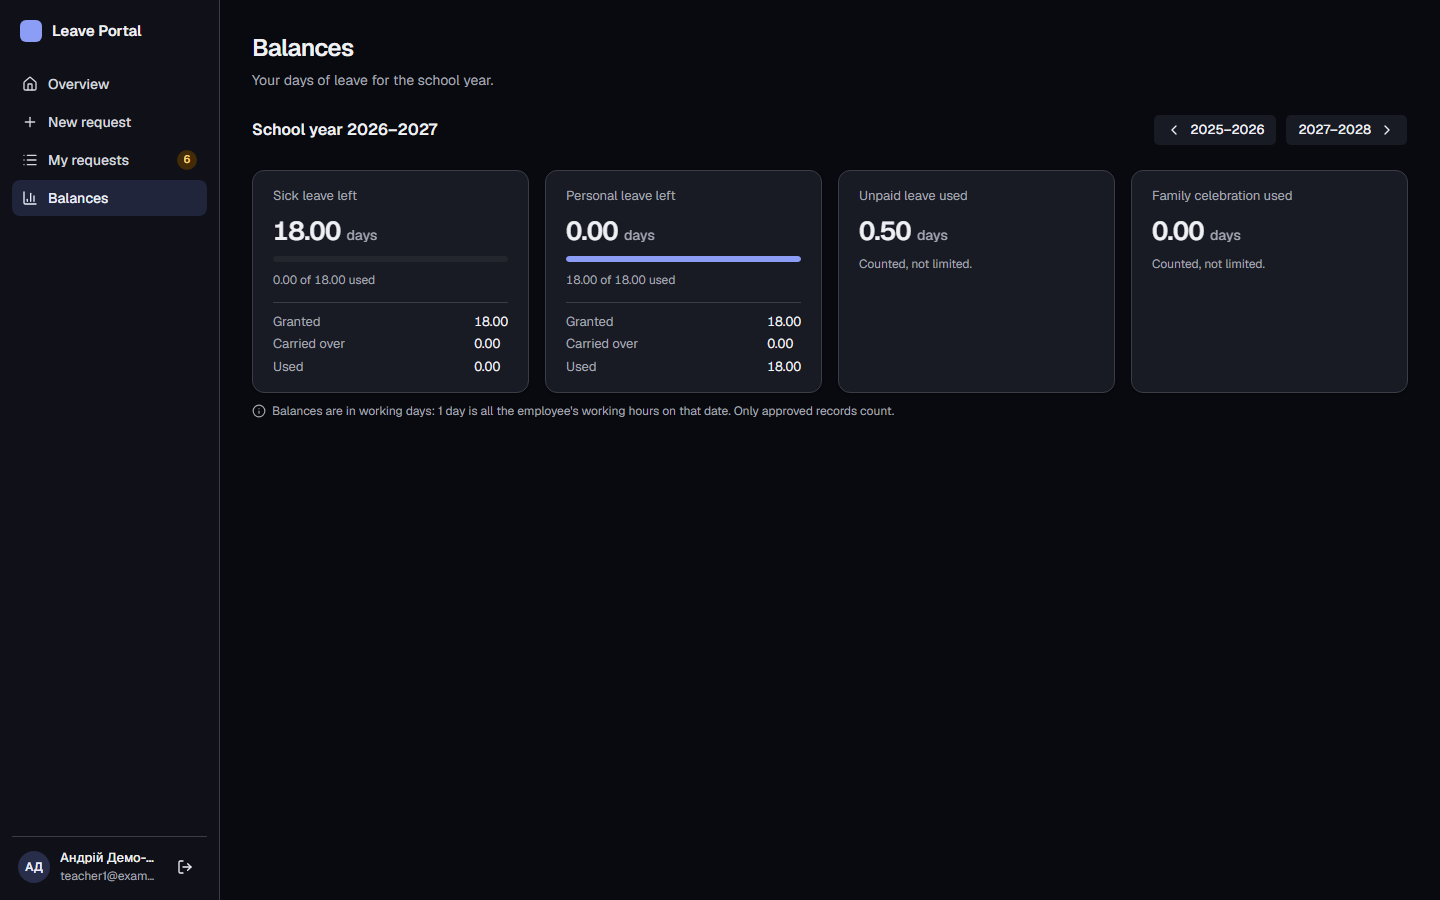
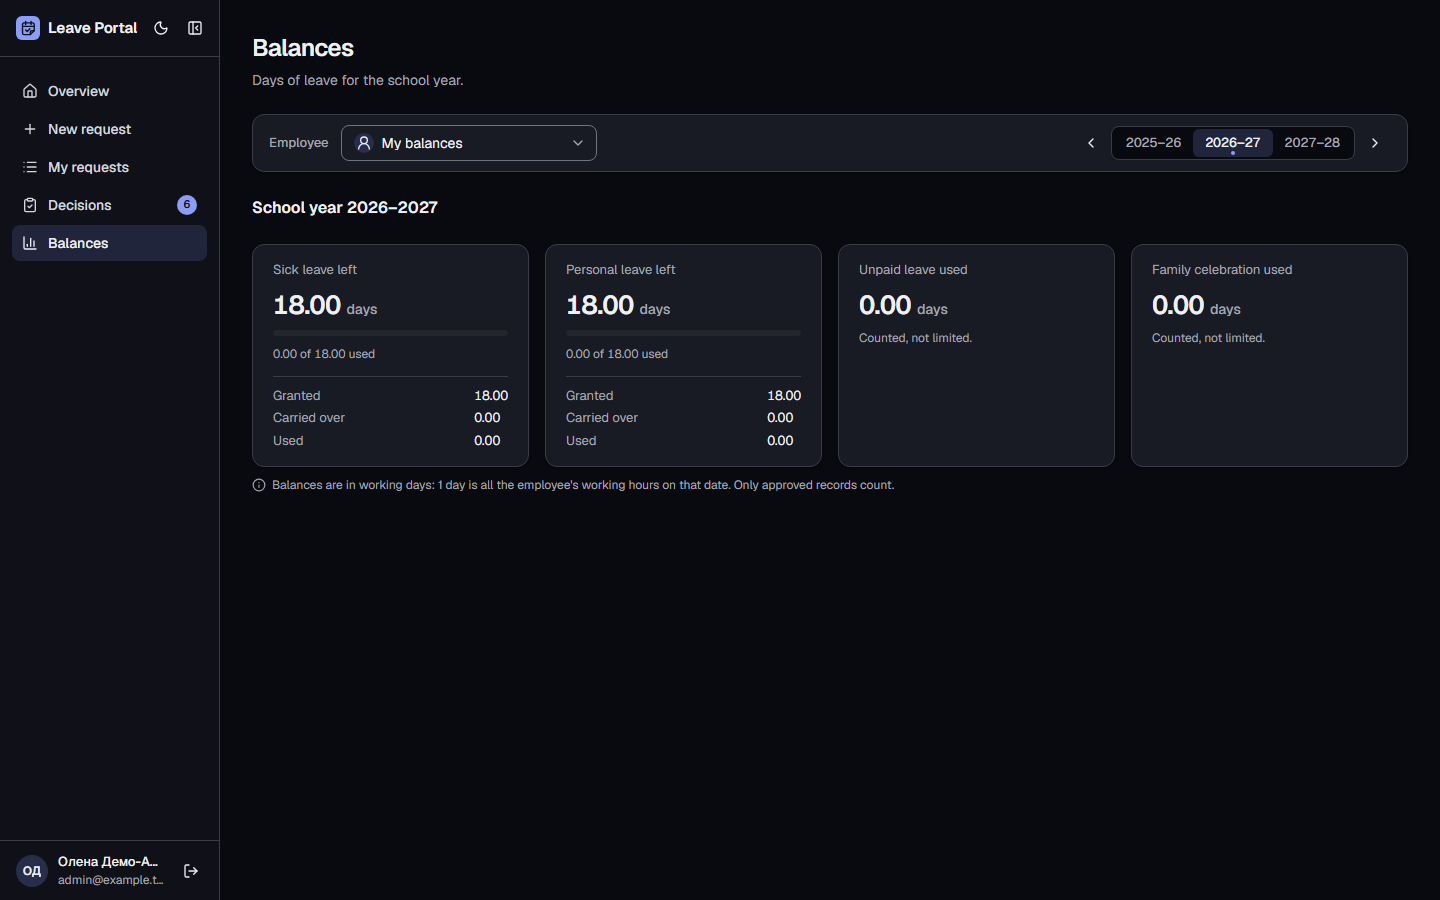
Balances: employee and year in one panel, no Show button
- The employee picker moved out of the page header into a panel above
  the cards: employee on the left, school years as segments on the right
  (‹ 2025–26 | 2026–27 | 2027–28 ›, the shown year highlighted, the
  current one dotted). The heading below still says whose balances and
  which year.
- Picking an employee navigates at once with the same ?employee=&year=;
  without JavaScript the GET form shows a Show button (<noscript>).
- List items: initials in a circle, the name, the email below.
- Select (all of them): padding around the list, item text truncates
  instead of running under the check, the selected item is a calm
  accent fill with the check.
- The Balances skeleton has the panel too.

diff --git a/src/app/(app)/balances/page.tsx b/src/app/(app)/balances/page.tsx
@@ -1,13 +1,11 @@
-import Link from "next/link";
 import { redirect } from "next/navigation";
-import { ChevronLeft, ChevronRight, Lock } from "lucide-react";
+import { CircleAlert, Lock } from "lucide-react";
 import { BalanceCards } from "@/components/balance-cards";
+import { EmployeePicker } from "@/components/employee-picker";
+import { SchoolYearSwitcher } from "@/components/school-year-switcher";
 import { Alert, AlertDescription } from "@/components/ui/alert";
-import { Button, buttonVariants } from "@/components/ui/button";
 import { EmptyState } from "@/components/ui/empty-state";
-import { Label } from "@/components/ui/label";
 import { PageHeader } from "@/components/ui/page-header";
-import { Select, SelectContent, SelectItem, SelectTrigger, SelectValue } from "@/components/ui/select";
 import { formatSchoolYear, schoolYearOf } from "@/lib/leave/balance";
 import { kyivDate } from "@/lib/leave/time";
 import { createClient } from "@/lib/supabase/server";
@@ -45,78 +43,42 @@ export default async function BalancesPage({ searchParams }: PageProps<"/balance
     supabase.rpc("balance_employees"),
   ]);
 
-  const others = employees ?? [];
-  const items = [
-    { value: OWN, label: "My balances" },
-    ...others.map((e) => ({ value: e.id, label: e.full_name || e.email || "Employee" })),
-  ];
-  // Шапка однакова для своїх і чужих залишків: вибір працівника завжди праворуч угорі, а чиї це залишки —
-  // в описі й у рядку навчального року.
+  const others = (employees ?? []).map((e) => ({ id: e.id, name: e.full_name || e.email || "Employee", email: e.email ?? "" }));
+  // Чиї це залишки — у рядку над картками; шапка однакова для своїх і чужих.
   const whose = employeeParam && result.ok ? result.employee.name : null;
 
   return (
     <>
       <PageHeader
         title="Balances"
-        description={whose ? `${whose}. Days of leave for the school year.` : "Your days of leave for the school year."}
-        actions={
-          others.length > 0 ? (
-            <form action="/balances" className="flex items-end gap-2">
-              <input type="hidden" name="year" value={year} />
-              <div className="flex flex-col gap-1.5">
-                <Label htmlFor="balances-employee">Employee</Label>
-                <Select name="employee" defaultValue={employeeParam ?? OWN} items={items}>
-                  <SelectTrigger id="balances-employee" className="min-w-56">
-                    <SelectValue />
-                  </SelectTrigger>
-                  <SelectContent>
-                    {items.map((item) => (
-                      <SelectItem key={item.value} value={item.value}>
-                        {item.label}
-                      </SelectItem>
-                    ))}
-                  </SelectContent>
-                </Select>
-              </div>
-              {/* GET-форма без серверної дії: useFormStatus її не бачить, тож звичайна кнопка, без «Showing…». */}
-              <Button type="submit" variant="outline">
-                Show
-              </Button>
-            </form>
-          ) : employeesError ? (
-            // Без списку менеджер не відкриє залишки працівника — кажемо чому, а не ховаємо вибір мовчки.
-            <Alert variant="destructive" role="alert" className="max-w-sm">
-              <AlertDescription>The list of employees could not be loaded. Please reload the page.</AlertDescription>
-            </Alert>
-          ) : undefined
-        }
+        description={others.length > 0 ? "Days of leave for the school year." : "Your days of leave for the school year."}
       />
 
-      <div className="flex flex-wrap items-center justify-between gap-3">
-        <h2 className="text-base font-semibold">
-          {whose ? `${whose} · ` : ""}School year {formatSchoolYear(year)}
-        </h2>
-        <nav aria-label="School year" className="flex items-center gap-2">
-          {/* На межах діапазону balancesQuery посилання за межу немає: 1999 чи 2100 відкрили б поточний рік. */}
-          {year > MIN_SCHOOL_YEAR && (
-            <Link href={balancesHref(employeeParam, year - 1)} className={buttonVariants({ variant: "outline", size: "sm" })}>
-              <ChevronLeft />
-              {formatSchoolYear(year - 1)}
-            </Link>
-          )}
-          {year !== currentYear && (
-            <Link href={balancesHref(employeeParam, currentYear)} className={buttonVariants({ variant: "ghost", size: "sm" })}>
-              Current year
-            </Link>
-          )}
-          {year < MAX_SCHOOL_YEAR && (
-            <Link href={balancesHref(employeeParam, year + 1)} className={buttonVariants({ variant: "outline", size: "sm" })}>
-              {formatSchoolYear(year + 1)}
-              <ChevronRight />
-            </Link>
-          )}
-        </nav>
+      {/* Панель вибору: ліворуч — чиї залишки (менеджеру й адміністратору), праворуч — навчальний рік. */}
+      <div className="flex flex-wrap items-center justify-between gap-3 rounded-lg border border-border bg-card px-4 py-2.5 shadow-sm">
+        {others.length > 0 ? (
+          <EmployeePicker employees={others} selected={employeeParam ?? OWN} own={OWN} year={year} />
+        ) : employeesError ? (
+          // Без списку менеджер не відкриє залишки працівника — кажемо чому, а не ховаємо вибір мовчки.
+          <p role="alert" className="flex items-center gap-2 text-[13px] text-destructive">
+            <CircleAlert className="size-4 shrink-0" aria-hidden="true" />
+            The list of employees could not be loaded. Please reload the page.
+          </p>
+        ) : (
+          <span className="text-[13px] font-medium">My balances</span>
+        )}
+        <SchoolYearSwitcher
+          year={year}
+          current={currentYear}
+          min={MIN_SCHOOL_YEAR}
+          max={MAX_SCHOOL_YEAR}
+          href={(y) => balancesHref(employeeParam, y)}
+        />
       </div>
+
+      <h2 className="text-base font-semibold">
+        {whose ? `${whose} · ` : ""}School year {formatSchoolYear(year)}
+      </h2>
 
       {result.ok ? (
         <BalanceCards balances={result.balances} detailed />

diff --git a/src/components/employee-picker.tsx b/src/components/employee-picker.tsx
@@ -1,0 +1,114 @@
+"use client";
+
+import { useRouter } from "next/navigation";
+import { useTransition } from "react";
+import { UserRound } from "lucide-react";
+import { Button } from "@/components/ui/button";
+import { Label } from "@/components/ui/label";
+import { Select, SelectContent, SelectItem, SelectTrigger, SelectValue } from "@/components/ui/select";
+import { cn } from "@/lib/utils";
+
+export type PickerEmployee = { id: string; name: string; email: string };
+
+function initials(name: string) {
+  return name
+    .split(/[\s-]+/)
+    .filter(Boolean)
+    .slice(0, 2)
+    .map((part) => part[0]!.toUpperCase())
+    .join("");
+}
+
+/** Ініціали в колі; для «My balances» — іконка людини. */
+function Avatar({ employee, className }: { employee: PickerEmployee | null; className?: string }) {
+  return (
+    <span
+      aria-hidden="true"
+      className={cn(
+        "grid size-6 shrink-0 place-items-center rounded-full bg-accent text-[11px] font-semibold text-accent-foreground [&_svg]:size-3.5",
+        className,
+      )}
+    >
+      {employee ? initials(employee.name) : <UserRound />}
+    </span>
+  );
+}
+
+/**
+ * Вибір працівника на /balances для менеджера й адміністратора: пункт — ініціали, ім'я, нижче email. Перехід — одразу
+ * після вибору (той самий `?employee=&year=`, що й у формі); без JavaScript спрацює GET-форма з кнопкою «Show».
+ * `own` — значення пункту «My balances» (Base UI не приймає "" як значення пункту).
+ */
+export function EmployeePicker({
+  employees,
+  selected,
+  own,
+  year,
+}: {
+  employees: PickerEmployee[];
+  selected: string;
+  own: string;
+  year: number;
+}) {
+  const router = useRouter();
+  const [pending, startTransition] = useTransition();
+  const byId = new Map(employees.map((e) => [e.id, e]));
+  const items = [{ value: own, label: "My balances" }, ...employees.map((e) => ({ value: e.id, label: e.name }))];
+
+  function go(value: unknown) {
+    if (typeof value !== "string") return;
+    const params = new URLSearchParams();
+    if (value !== own) params.set("employee", value);
+    params.set("year", String(year));
+    startTransition(() => router.push(`/balances?${params}`));
+  }
+
+  return (
+    <form action="/balances" className="flex items-center gap-3">
+      <input type="hidden" name="year" value={year} />
+      <Label htmlFor="balances-employee" className="text-muted-foreground">
+        Employee
+      </Label>
+      <Select name="employee" defaultValue={selected} items={items} onValueChange={go}>
+        <SelectTrigger id="balances-employee" className="h-9 min-w-64" aria-busy={pending || undefined}>
+          <SelectValue>
+            {(value: string) => (
+              <span className="flex min-w-0 items-center gap-2">
+                <Avatar employee={byId.get(value) ?? null} className="size-5 text-[10px]" />
+                <span className="truncate">{byId.get(value)?.name ?? "My balances"}</span>
+              </span>
+            )}
+          </SelectValue>
+          {pending && (
+            <span
+              aria-hidden="true"
+              className="size-3.5 shrink-0 rounded-full border-2 border-current border-r-transparent text-muted-foreground motion-safe:animate-spin"
+            />
+          )}
+        </SelectTrigger>
+        <SelectContent alignItemWithTrigger={false} align="start" className="w-auto max-w-80 min-w-(--anchor-width)">
+          {items.map((item) => {
+            const employee = byId.get(item.value) ?? null;
+            return (
+              <SelectItem key={item.value} value={item.value}>
+                <Avatar employee={employee} />
+                <span className="flex min-w-0 flex-col">
+                  <span className="truncate">{item.label}</span>
+                  <span className="truncate text-xs text-muted-foreground">
+                    {employee ? employee.email : "Your own balances"}
+                  </span>
+                </span>
+              </SelectItem>
+            );
+          })}
+        </SelectContent>
+      </Select>
+      {/* Без JavaScript вибір не переходить сам — тоді звичайна GET-форма. */}
+      <noscript>
+        <Button type="submit" variant="outline">
+          Show
+        </Button>
+      </noscript>
+    </form>
+  );
+}

diff --git a/src/components/ui/select.tsx b/src/components/ui/select.tsx
@@ -82,7 +82,7 @@ function SelectContent({
         <SelectPrimitive.Popup
           data-slot="select-content"
           data-align-trigger={alignItemWithTrigger}
-          className={cn("relative isolate z-50 max-h-(--available-height) w-(--anchor-width) min-w-36 origin-(--transform-origin) overflow-x-hidden overflow-y-auto rounded-md border border-border bg-popover text-popover-foreground shadow-md duration-(--duration-base) data-[align-trigger=true]:animate-none data-[side=bottom]:slide-in-from-top-2 data-[side=inline-end]:slide-in-from-left-2 data-[side=inline-start]:slide-in-from-right-2 data-[side=left]:slide-in-from-right-2 data-[side=right]:slide-in-from-left-2 data-[side=top]:slide-in-from-bottom-2 data-open:animate-in data-open:fade-in-0 data-open:zoom-in-95 data-closed:animate-out data-closed:fade-out-0 data-closed:zoom-out-95", className )}
+          className={cn("relative isolate z-50 max-h-(--available-height) w-(--anchor-width) min-w-36 origin-(--transform-origin) overflow-x-hidden overflow-y-auto rounded-md border border-border bg-popover p-1 text-popover-foreground shadow-md duration-(--duration-base) data-[align-trigger=true]:animate-none data-[side=bottom]:slide-in-from-top-2 data-[side=inline-end]:slide-in-from-left-2 data-[side=inline-start]:slide-in-from-right-2 data-[side=left]:slide-in-from-right-2 data-[side=right]:slide-in-from-left-2 data-[side=top]:slide-in-from-bottom-2 data-open:animate-in data-open:fade-in-0 data-open:zoom-in-95 data-closed:animate-out data-closed:fade-out-0 data-closed:zoom-out-95", className )}
           {...props}
         >
           <SelectScrollUpButton />
@@ -116,17 +116,19 @@ function SelectItem({
     <SelectPrimitive.Item
       data-slot="select-item"
       className={cn(
-        "relative flex w-full cursor-default items-center gap-1.5 rounded-md py-1 pr-8 pl-1.5 text-sm outline-hidden select-none focus:bg-accent focus:text-accent-foreground not-data-[variant=destructive]:focus:**:text-accent-foreground data-disabled:pointer-events-none data-disabled:opacity-50 [&_svg]:pointer-events-none [&_svg]:shrink-0 [&_svg:not([class*='size-'])]:size-4 *:[span]:last:flex *:[span]:last:items-center *:[span]:last:gap-2",
+        // Вибраний пункт — спокійна заливка accent і галочка; пункт під курсором чи клавіатурою — та сама заливка, але
+        // повна. Текст стискається (min-w-0, truncate) і не залазить під галочку праворуч (pr-8).
+        "relative flex w-full cursor-default items-center gap-2 rounded-sm py-1.5 pr-8 pl-2 text-sm outline-hidden select-none data-[selected]:bg-accent/60 data-[selected]:text-accent-foreground focus:bg-accent focus:text-accent-foreground not-data-[variant=destructive]:focus:**:text-accent-foreground data-disabled:pointer-events-none data-disabled:opacity-50 [&_svg]:pointer-events-none [&_svg]:shrink-0 [&_svg:not([class*='size-'])]:size-4",
         className
       )}
       {...props}
     >
-      <SelectPrimitive.ItemText className="flex flex-1 shrink-0 gap-2 whitespace-nowrap">
+      <SelectPrimitive.ItemText className="flex min-w-0 flex-1 items-center gap-2 truncate">
         {children}
       </SelectPrimitive.ItemText>
       <SelectPrimitive.ItemIndicator
         render={
-          <span className="pointer-events-none absolute right-2 flex size-4 items-center justify-center" />
+          <span className="pointer-events-none absolute right-2.5 flex size-4 items-center justify-center text-accent-foreground" />
         }
       >
         <CheckIcon className="pointer-events-none" />

diff --git a/src/components/school-year-switcher.tsx b/src/components/school-year-switcher.tsx
@@ -1,0 +1,75 @@
+import Link from "next/link";
+import { ChevronLeft, ChevronRight } from "lucide-react";
+import { buttonVariants } from "@/components/ui/button";
+import { cn } from "@/lib/utils";
+
+/** "2026–27": коротко, як на сегменті; повна назва року — у `aria-label`. */
+function shortYear(year: number) {
+  return `${year}–${String(year + 1).slice(2)}`;
+}
+
+/**
+ * Навчальні роки сегментами: ‹ 2025–26 | 2026–27 | 2027–28 ›. Показаний рік виділено; поки він поруч із поточним,
+ * сегменти стоять навколо поточного, а далі — навколо показаного, щоб він завжди був видно. Поточний рік позначено
+ * крапкою. Стрілки — на рік назад і вперед, у межах `min`…`max`.
+ */
+export function SchoolYearSwitcher({
+  year,
+  current,
+  min,
+  max,
+  href,
+}: {
+  year: number;
+  current: number;
+  min: number;
+  max: number;
+  href: (year: number) => string;
+}) {
+  const center = Math.abs(year - current) <= 1 ? current : year;
+  const years = [center - 1, center, center + 1].filter((y) => y >= min && y <= max);
+  const arrow = buttonVariants({ variant: "ghost", size: "icon-sm" });
+
+  return (
+    <nav aria-label="School year" className="flex items-center gap-1">
+      {year > min ? (
+        <Link href={href(year - 1)} aria-label={`School year ${year - 1}–${year}`} className={arrow}>
+          <ChevronLeft />
+        </Link>
+      ) : (
+        <span aria-hidden="true" className="size-7" />
+      )}
+      <div className="flex rounded-md border border-border bg-background p-0.5">
+        {years.map((y) => {
+          const active = y === year;
+          return (
+            <Link
+              key={y}
+              href={href(y)}
+              aria-current={active ? "page" : undefined}
+              aria-label={`School year ${y}–${y + 1}${y === current ? " (current)" : ""}`}
+              className={cn(
+                "relative grid h-7 place-items-center rounded-sm px-3 text-[13px] font-medium tabular-nums transition-colors duration-(--duration-fast) ease-out",
+                active
+                  ? "bg-sidebar-accent text-sidebar-accent-foreground"
+                  : "text-muted-foreground hover:bg-accent hover:text-accent-foreground",
+              )}
+            >
+              {shortYear(y)}
+              {y === current && (
+                <span aria-hidden="true" className="absolute bottom-0.5 left-1/2 size-1 -translate-x-1/2 rounded-full bg-primary" />
+              )}
+            </Link>
+          );
+        })}
+      </div>
+      {year < max ? (
+        <Link href={href(year + 1)} aria-label={`School year ${year + 1}–${year + 2}`} className={arrow}>
+          <ChevronRight />
+        </Link>
+      ) : (
+        <span aria-hidden="true" className="size-7" />
+      )}
+    </nav>
+  );
+}

diff --git a/src/app/(app)/balances/loading.tsx b/src/app/(app)/balances/loading.tsx
@@ -1,18 +1,16 @@
 import { BalanceCardsShape, HeaderShape, LoadingPage } from "@/components/loading-shapes";
 import { Skeleton } from "@/components/ui/skeleton";
 
-// Balances: заголовок, рядок навчального року з переходами між роками і картки залишків з подробицями.
+// Balances: заголовок, панель вибору (працівник ліворуч, роки праворуч), рядок року й картки залишків з подробицями.
 export default function Loading() {
   return (
     <LoadingPage>
       <HeaderShape action={false} />
-      <div className="flex flex-wrap items-center justify-between gap-3">
-        <Skeleton className="h-5 w-52" />
-        <div className="flex gap-2">
-          <Skeleton className="h-8 w-28 rounded-md" />
-          <Skeleton className="h-8 w-28 rounded-md" />
-        </div>
+      <div className="flex flex-wrap items-center justify-between gap-3 rounded-lg border border-border bg-card px-4 py-2.5 shadow-sm">
+        <Skeleton className="h-9 w-80 rounded-md" />
+        <Skeleton className="h-8 w-64 rounded-md" />
       </div>
+      <Skeleton className="h-5 w-52" />
       <BalanceCardsShape detailed />
     </LoadingPage>
   );
